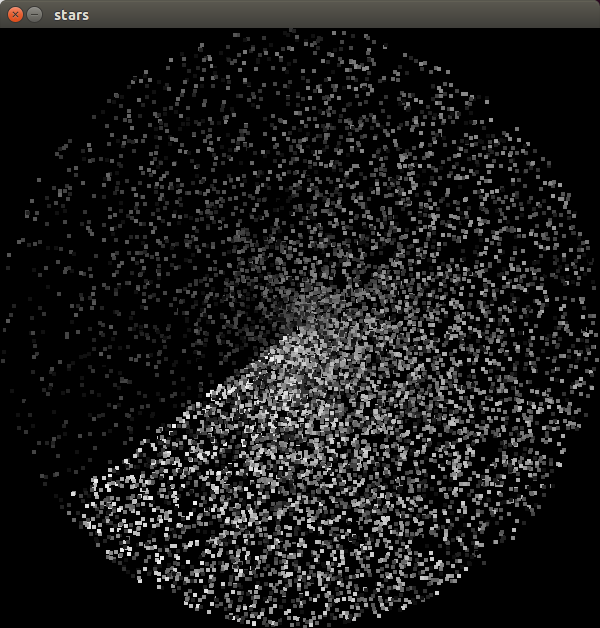
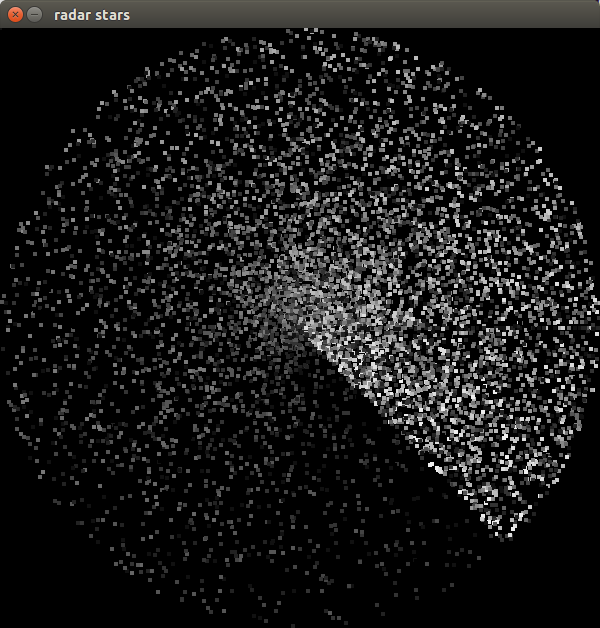
code organization enhancements

diff --git a/radar_stars.go b/radar_stars.go
@@ -14,13 +14,17 @@ import (
 var winWidth, winHeight int32 = 600, 600
 var starRadius int32 = 2
 var starBrightnessDecay float64 = 0.0012
-var starBrightnessThreshold float64 = 0.05
+var starBrightnessThreshold float64 = 0.05 // below this gets recycled
 var sweepDurationMs float64 = 10000
 var numStars int = 10000
-var centY, centX, maxR float64 = 300, 300, 300
-var (
-	twoPi float64 = math.Pi * 2
-)
+
+/* the smallest type of thing is a
+███████╗████████╗ █████╗ ██████╗
+██╔════╝╚══██╔══╝██╔══██╗██╔══██╗
+███████╗   ██║   ███████║██████╔╝
+╚════██║   ██║   ██╔══██║██╔══██╗
+███████║   ██║   ██║  ██║██║  ██║
+╚══════╝   ╚═╝   ╚═╝  ╚═╝╚═╝  ╚═╝*/
 
 type Star struct {
 	X int32
@@ -39,6 +43,14 @@ func (s *Star) Life() bool {
 	s.B -= starBrightnessDecay
 	return s.B > starBrightnessThreshold
 }
+
+/* there are many stars inside of a
+██████╗  █████╗ ██████╗  █████╗ ██████╗
+██╔══██╗██╔══██╗██╔══██╗██╔══██╗██╔══██╗
+██████╔╝███████║██║  ██║███████║██████╔╝
+██╔══██╗██╔══██║██║  ██║██╔══██║██╔══██╗
+██║  ██║██║  ██║██████╔╝██║  ██║██║  ██║
+╚═╝  ╚═╝╚═╝  ╚═╝╚═════╝ ╚═╝  ╚═╝╚═╝  ╚═╝*/
 
 func NewRadar() *Radar {
 	r := &Radar{
@@ -64,7 +76,7 @@ func (r *Radar) Initialize() {
 	// Create stars
 	for i := 0; i < numStars; i++ {
 		s := &Star{}
-		r.BirthStar(s)
+		s.B = rand.Float64()
 		r.m_Stars = append(r.m_Stars, s)
 	}
 }
@@ -96,38 +108,17 @@ func (r *Radar) BirthStar(s *Star) {
 	s.B = rand.Float64()
 }
 
-var palette = []uint32{
-	0xFF000000,
-	0xFF111111,
-	0xFF222222,
-	0xFF333333,
-	0xFF444444,
-	0xFF555555,
-	0xFF666666,
-	0xFF777777,
-	0xFF888888,
-	0xFF999999,
-	0xFFAAAAAA,
-	0xFFBBBBBB,
-	0xFFCCCCCC,
-	0xFFDDDDDD,
-	0xFFEEEEEE,
-	0xFFFFFFFF,
-}
-
-func colorBrightness(b float64) uint32 {
-	return palette[int(b*float64(15))]
-}
-
-func main() {
-	runtime.LockOSThread()
-	game := NewGame()
-	os.Exit(game.Start())
-}
+/* there is one radar for the whole
+ ██████╗  █████╗ ███╗   ███╗███████╗
+██╔════╝ ██╔══██╗████╗ ████║██╔════╝
+██║  ███╗███████║██╔████╔██║█████╗
+██║   ██║██╔══██║██║╚██╔╝██║██╔══╝
+╚██████╔╝██║  ██║██║ ╚═╝ ██║███████╗
+ ╚═════╝ ╚═╝  ╚═╝╚═╝     ╚═╝╚══════╝*/
 
 func NewGame() *Game {
 	g := &Game{
-		Name: "stars",
+		Name: "radar stars",
 	}
 	g.Initialize()
 	return g
@@ -306,6 +297,20 @@ func (g *Game) NowMs() bool {
 	return false
 }
 
+/* the game is instantiated from
+███╗   ███╗ █████╗ ██╗███╗   ██╗
+████╗ ████║██╔══██╗██║████╗  ██║
+██╔████╔██║███████║██║██╔██╗ ██║
+██║╚██╔╝██║██╔══██║██║██║╚██╗██║
+██║ ╚═╝ ██║██║  ██║██║██║ ╚████║
+╚═╝     ╚═╝╚═╝  ╚═╝╚═╝╚═╝  ╚═══╝*/
+
+func main() {
+	runtime.LockOSThread()
+	game := NewGame()
+	os.Exit(game.Start())
+}
+
 type StateEnum uint
 
 const (
@@ -315,3 +320,32 @@ const (
 	STATE_FINISHED StateEnum = 6
 	STATE_FAILED   StateEnum = 7
 )
+
+var centY, centX float64 = float64(winHeight) / 2, float64(winWidth) / 2
+var maxR float64 = math.Min(centY, centX)
+var twoPi float64 = math.Pi * 2
+
+var palette = []uint32{
+	0xFF000000,
+	0xFF111111,
+	0xFF222222,
+	0xFF333333,
+	0xFF444444,
+	0xFF555555,
+	0xFF666666,
+	0xFF777777,
+	0xFF888888,
+	0xFF999999,
+	0xFFAAAAAA,
+	0xFFBBBBBB,
+	0xFFCCCCCC,
+	0xFFDDDDDD,
+	0xFFEEEEEE,
+	0xFFFFFFFF,
+}
+
+func colorBrightness(b float64) uint32 {
+	return palette[int(b*float64(15))]
+}
+
+

diff --git a/stars.go b/stars.go
@@ -15,7 +15,14 @@ var starRadius int32 = 2
 var starBrightnessDecay float64 = 0.001
 var starBrightnessThreshold float64 = 0.05
 var numStars int = 10000
-var centX, centY int = 400, 300
+
+/* the smallest type of thing is a
+███████╗████████╗ █████╗ ██████╗
+██╔════╝╚══██╔══╝██╔══██╗██╔══██╗
+███████╗   ██║   ███████║██████╔╝
+╚════██║   ██║   ██╔══██║██╔══██╗
+███████║   ██║   ██║  ██║██║  ██║
+╚══════╝   ╚═╝   ╚═╝  ╚═╝╚═╝  ╚═╝*/
 
 type Star struct {
 	X int32
@@ -31,8 +38,6 @@ func (s *Star) Birth() {
 
 func (s *Star) RenderToSurface(surface *sdl.Surface) {
 	sBox := sdl.Rect{s.X - starRadius, s.Y - starRadius, starRadius * 2, starRadius * 2}
-	//	var c = uint8(s.B * float64(255))
-	// sColor := &sdl.Color{255, 255, 255, 255}
 	surface.FillRect(&sBox, colorBrightness(s.B))
 }
 
@@ -43,42 +48,13 @@ func (s *Star) Life() {
 	}
 }
 
-var palette = []uint32{
-	0xFF000000,
-	0xFF111111,
-	0xFF222222,
-	0xFF333333,
-	0xFF444444,
-	0xFF555555,
-	0xFF666666,
-	0xFF777777,
-	0xFF888888,
-	0xFF999999,
-	0xFFAAAAAA,
-	0xFFBBBBBB,
-	0xFFCCCCCC,
-	0xFFDDDDDD,
-	0xFFEEEEEE,
-	0xFFFFFFFF,
-}
-
-func colorBrightness(b float64) uint32 {
-	return palette[int(b*float64(15))]
-}
-
-func (g *Game) RenderStarsToScreenSurface() int {
-	for _, star := range g.m_Stars {
-		star.RenderToSurface(g.sdlScreenSurface)
-		star.Life()
-	}
-	return 0
-}
-
-func main() {
-	runtime.LockOSThread()
-	game := NewGame()
-	os.Exit(game.Start())
-}
+/* there is one radar for the whole
+ ██████╗  █████╗ ███╗   ███╗███████╗
+██╔════╝ ██╔══██╗████╗ ████║██╔════╝
+██║  ███╗███████║██╔████╔██║█████╗
+██║   ██║██╔══██║██║╚██╔╝██║██╔══╝
+╚██████╔╝██║  ██║██║ ╚═╝ ██║███████╗
+ ╚═════╝ ╚═╝  ╚═╝╚═╝     ╚═╝╚══════╝*/
 
 func NewGame() *Game {
 	g := &Game{
@@ -202,6 +178,14 @@ func (g *Game) Render() {
 	g.sdlRenderer.Present()
 }
 
+func (g *Game) RenderStarsToScreenSurface() int {
+	for _, star := range g.m_Stars {
+		star.RenderToSurface(g.sdlScreenSurface)
+		star.Life()
+	}
+	return 0
+}
+
 func (g *Game) Stop() {
 	g.ChangeState(STATE_FINISHED)
 }
@@ -266,6 +250,20 @@ func (g *Game) NowMs() bool {
 	return false
 }
 
+/* the game is instantiated from
+███╗   ███╗ █████╗ ██╗███╗   ██╗
+████╗ ████║██╔══██╗██║████╗  ██║
+██╔████╔██║███████║██║██╔██╗ ██║
+██║╚██╔╝██║██╔══██║██║██║╚██╗██║
+██║ ╚═╝ ██║██║  ██║██║██║ ╚████║
+╚═╝     ╚═╝╚═╝  ╚═╝╚═╝╚═╝  ╚═══╝*/
+
+func main() {
+	runtime.LockOSThread()
+	game := NewGame()
+	os.Exit(game.Start())
+}
+
 type StateEnum uint
 
 const (
@@ -275,3 +273,26 @@ const (
 	STATE_FINISHED StateEnum = 6
 	STATE_FAILED   StateEnum = 7
 )
+
+var palette = []uint32{
+	0xFF000000,
+	0xFF111111,
+	0xFF222222,
+	0xFF333333,
+	0xFF444444,
+	0xFF555555,
+	0xFF666666,
+	0xFF777777,
+	0xFF888888,
+	0xFF999999,
+	0xFFAAAAAA,
+	0xFFBBBBBB,
+	0xFFCCCCCC,
+	0xFFDDDDDD,
+	0xFFEEEEEE,
+	0xFFFFFFFF,
+}
+
+func colorBrightness(b float64) uint32 {
+	return palette[int(b*float64(15))]
+}

diff --git a/stars_goroutine.go b/stars_goroutine.go
@@ -1,5 +1,8 @@
 /** Copyright 2015 Outright Mental, Inc. */
 
+/** This performs poorly- it's included only to
+potentially investigate *why* it performs so poorly. */
+
 package main
 
 import (

diff --git a/README.md b/README.md
@@ -1,8 +1,22 @@
 # go-SDL-experiements
 
+# Stars
+
+    go run stars.go
+
+![Stars](docs/stars.png)
+
 # Radar Stars
 
+    go run radar_stars.go
+
 ![Radar Stars](docs/radar_stars.png)
+
+# Stars in Goroutine (anti-pattern)
+
+This performs poorly- it's included only to potentially investigate *why* it performs so poorly.
+
+    go run stars_goroutine.go
 
 ## Tips
 
